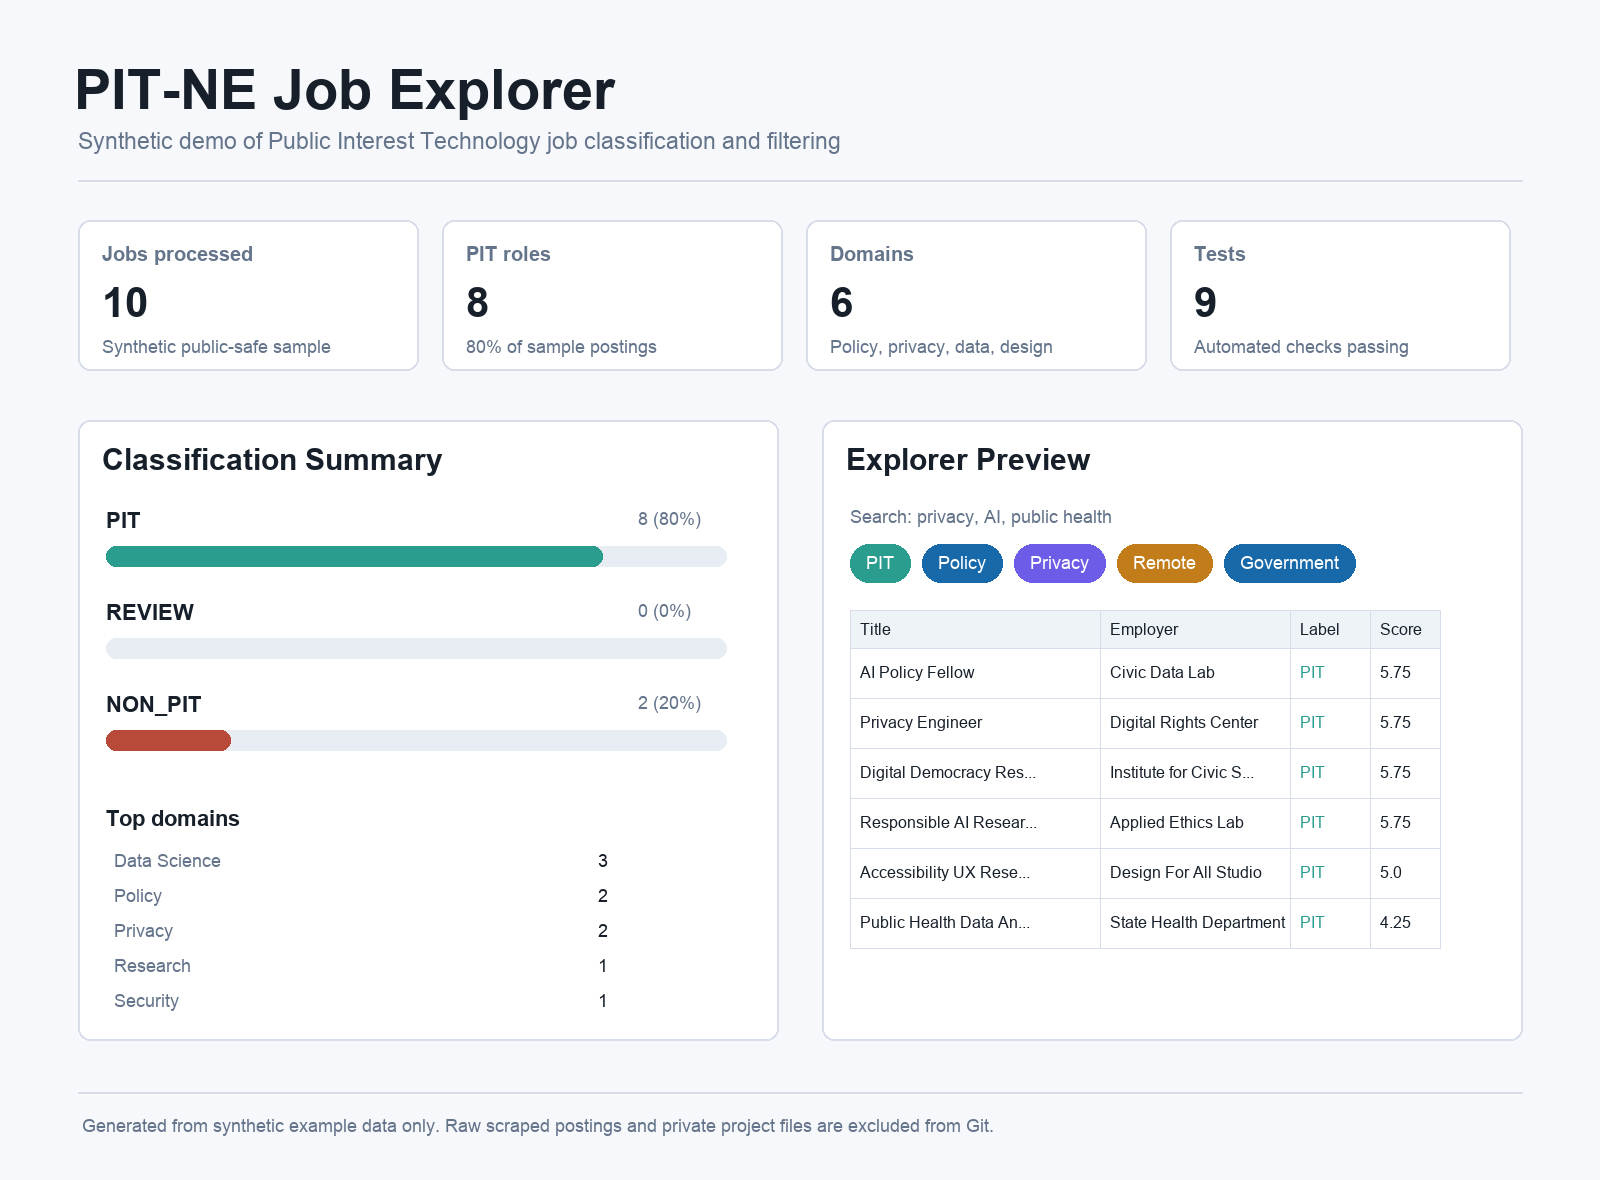
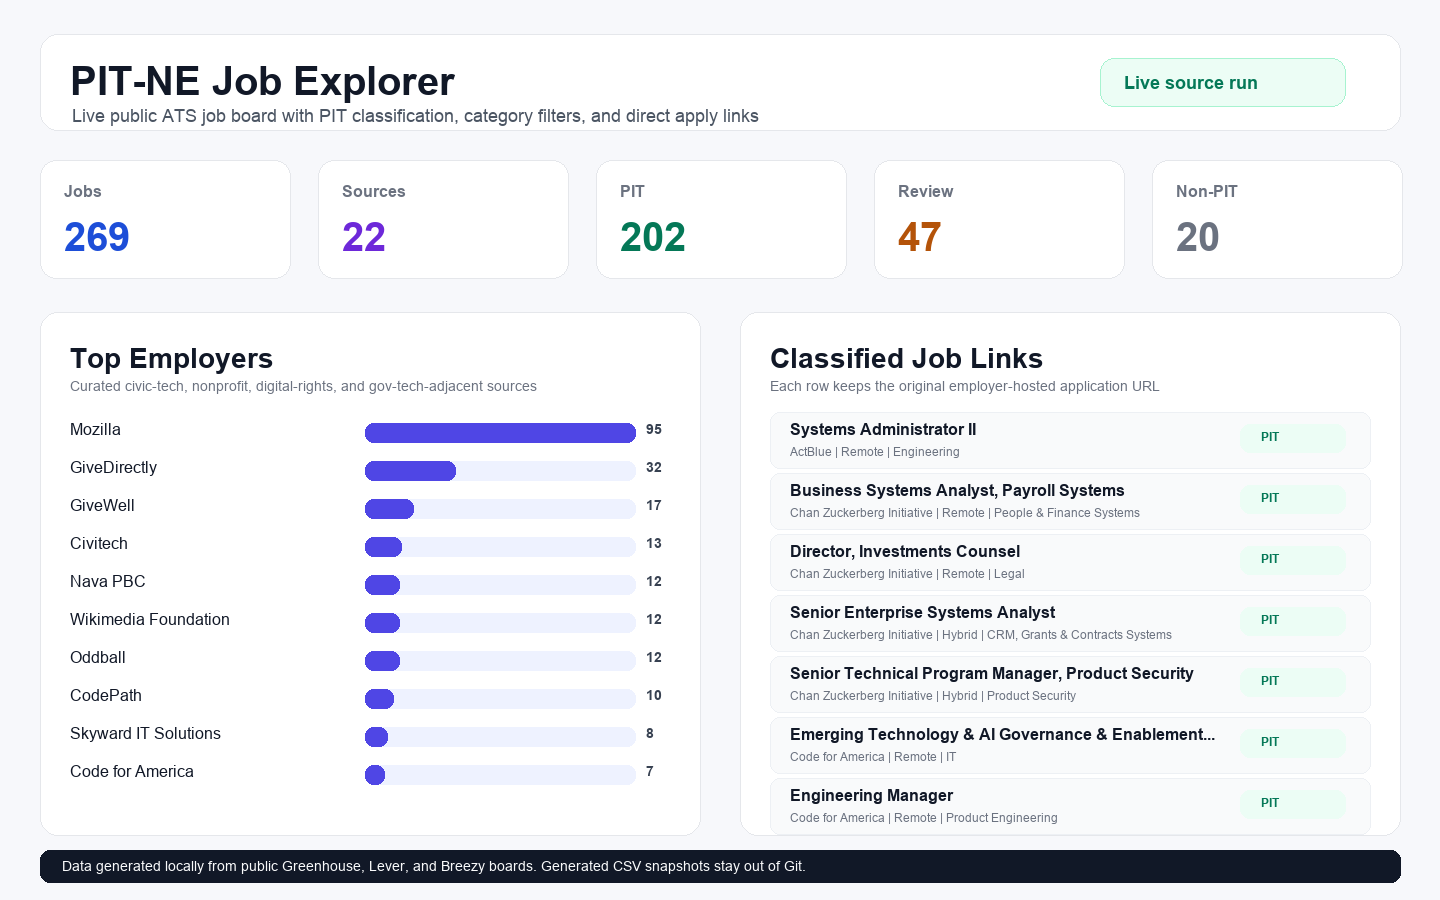
Expand live job board source registry

diff --git a/src/pit_ne_job_explorer/sources.py b/src/pit_ne_job_explorer/sources.py
@@ -129,6 +129,39 @@ def parse_greenhouse_posting(
     }
 
 
+def parse_breezy_posting(source: Mapping[str, str], posting: Mapping[str, object]) -> dict[str, str]:
+    location = posting.get("location") or {}
+    if not isinstance(location, Mapping):
+        location = {}
+    location_name = str(location.get("name", "") or "")
+    country = location.get("country") or {}
+    if not isinstance(country, Mapping):
+        country = {}
+
+    description_parts = [
+        posting.get("description"),
+        posting.get("summary"),
+        posting.get("department"),
+    ]
+    description = " ".join(strip_html(part) for part in description_parts if part)
+    is_remote = location.get("is_remote") is True
+
+    return {
+        "title": str(posting.get("name", "") or ""),
+        "employer": str((posting.get("company") or {}).get("name") or source["name"]),
+        "location": location_name,
+        "country": str(country.get("name", "") or ""),
+        "source": f"Breezy: {source['name']}",
+        "job_url": str(posting.get("url", "") or source.get("source_url", "")),
+        "description": description,
+        "date_posted": str(posting.get("published_date", "") or ""),
+        "location_type": "Remote" if is_remote else "",
+        "experience_level": "",
+        "sector": str(source.get("sector", "") or ""),
+        "domain": str(posting.get("department", "") or ""),
+    }
+
+
 def fetch_lever_source(source: Mapping[str, str]) -> list[dict[str, str]]:
     site = urllib.parse.quote(source["site"])
     url = f"https://api.lever.co/v0/postings/{site}?mode=json"
@@ -147,12 +180,23 @@ def fetch_greenhouse_source(source: Mapping[str, str]) -> list[dict[str, str]]:
     return [parse_greenhouse_posting(source, posting) for posting in payload["jobs"]]
 
 
+def fetch_breezy_source(source: Mapping[str, str]) -> list[dict[str, str]]:
+    subdomain = urllib.parse.quote(source["subdomain"])
+    url = f"https://{subdomain}.breezy.hr/json"
+    payload = fetch_json(url)
+    if not isinstance(payload, list):
+        raise SourceFetchError(f"Breezy source {source['name']} returned non-list JSON")
+    return [parse_breezy_posting(source, posting) for posting in payload]
+
+
 def fetch_source(source: Mapping[str, str]) -> list[dict[str, str]]:
     provider = source.get("provider")
     if provider == "lever":
         return fetch_lever_source(source)
     if provider == "greenhouse":
         return fetch_greenhouse_source(source)
+    if provider == "breezy":
+        return fetch_breezy_source(source)
     raise SourceFetchError(f"Unsupported provider for {source.get('name')}: {provider}")
 
 
@@ -161,3 +205,16 @@ def collect_jobs(sources: Iterable[Mapping[str, str]]) -> list[dict[str, str]]:
     for source in sources:
         rows.extend(fetch_source(source))
     return rows
+
+
+def collect_jobs_with_errors(
+    sources: Iterable[Mapping[str, str]],
+) -> tuple[list[dict[str, str]], list[str]]:
+    rows: list[dict[str, str]] = []
+    errors: list[str] = []
+    for source in sources:
+        try:
+            rows.extend(fetch_source(source))
+        except SourceFetchError as exc:
+            errors.append(str(exc))
+    return rows, errors

diff --git a/scripts/fetch_live_jobs.py b/scripts/fetch_live_jobs.py
@@ -6,7 +6,11 @@ import argparse
 from pathlib import Path
 
 from pit_ne_job_explorer.cli import run, write_csv
-from pit_ne_job_explorer.sources import SOURCE_FIELDS, collect_jobs, load_source_registry
+from pit_ne_job_explorer.sources import (
+    SOURCE_FIELDS,
+    collect_jobs_with_errors,
+    load_source_registry,
+)
 
 
 def build_parser() -> argparse.ArgumentParser:
@@ -39,10 +43,18 @@ def build_parser() -> argparse.ArgumentParser:
 def main(argv: list[str] | None = None) -> int:
     args = build_parser().parse_args(argv)
     sources = load_source_registry(args.sources)
-    rows = collect_jobs(sources)
+    rows, errors = collect_jobs_with_errors(sources)
+    for error in errors:
+        print(f"Warning: {error}")
+    if not rows:
+        raise SystemExit("No postings were fetched from the configured sources.")
     write_csv(args.raw_output, rows, SOURCE_FIELDS)
     count = run(args.raw_output, args.jobs_output, args.summary_output)
-    print(f"Fetched {len(rows)} public posting(s) from {len(sources)} source(s).")
+    successful_sources = len(sources) - len(errors)
+    print(
+        f"Fetched {len(rows)} public posting(s) from "
+        f"{successful_sources}/{len(sources)} source(s)."
+    )
     print(f"Wrote {count} classified job row(s) to {Path(args.jobs_output)}")
     print(f"Wrote summary metrics to {Path(args.summary_output)}")
     return 0

diff --git a/tests/test_sources.py b/tests/test_sources.py
@@ -1,4 +1,5 @@
 from pit_ne_job_explorer.sources import (
+    parse_breezy_posting,
     parse_greenhouse_posting,
     parse_lever_posting,
     strip_html,
@@ -48,6 +49,30 @@ def test_parse_greenhouse_posting_strips_html_and_keeps_source_url():
     assert row["job_url"].endswith("/123")
     assert row["description"] == "Responsible AI & policy for public services."
     assert row["domain"] == "Technology"
+
+
+def test_parse_breezy_posting_preserves_remote_location_and_link():
+    source = {"name": "U.S. Digital Response", "sector": "Nonprofit"}
+    posting = {
+        "name": "Chief Technology Officer",
+        "url": "https://us-digital-response.breezy.hr/p/abc",
+        "published_date": "2026-09-22T18:43:03.474Z",
+        "department": "Executive Team",
+        "location": {
+            "name": "United States",
+            "is_remote": True,
+            "country": {"name": "United States"},
+        },
+        "company": {"name": "U.S. Digital Response"},
+    }
+
+    row = parse_breezy_posting(source, posting)
+
+    assert row["employer"] == "U.S. Digital Response"
+    assert row["location_type"] == "Remote"
+    assert row["country"] == "United States"
+    assert row["domain"] == "Executive Team"
+    assert row["job_url"].endswith("/abc")
 
 
 def test_strip_html_normalizes_entities_and_spacing():

diff --git a/README.md b/README.md
@@ -17,8 +17,8 @@ not been reviewed for sharing.
   and sector rules.
 - Produces summary metrics by PIT label, domain, sector, experience level, and
   location type.
-- Fetches real public postings from company-hosted Greenhouse and Lever job
-  boards, preserving direct apply links.
+- Fetches real public postings from company-hosted Greenhouse, Lever, and
+  Breezy job boards, preserving direct apply links.
 - Includes a lightweight Streamlit explorer for search, filtering, and clickable
   posting links.
 - Keeps generated job datasets out of Git so the public repository is safe to
@@ -30,16 +30,18 @@ not been reviewed for sharing.
 
 The committed synthetic demo processes 10 public-safe job postings, classifies
 8 as `PIT` and 2 as `NON_PIT`, and summarizes roles across 6 inferred domains.
-A live source registry currently targets 5 public ATS boards from civic-tech and
-public-interest-adjacent employers; local validation on 2026-10-09 fetched 40
-public postings with direct source links. The project includes 12 automated
-tests covering source adapters, normalization, deduplication, classification,
-analysis, and CLI exports.
+A live source registry currently targets 22 public ATS boards from civic-tech,
+public-interest, digital-rights, nonprofit, and gov-tech-adjacent employers.
+Local validation on 2026-10-09 fetched 269 public postings with direct source
+links, classifying 202 as `PIT`, 47 as `REVIEW`, and 20 as `NON_PIT`. The
+project includes 13 automated tests covering source adapters, normalization,
+deduplication, classification, analysis, and CLI exports.
 
 ## Portfolio Materials
 
 - `docs/methodology.md`: working PIT definition, classification rules, and
   source policy.
+- `docs/source_registry.md`: curated list of public job-board sources.
 - `docs/data_dictionary.md`: canonical job-posting schema.
 - `docs/architecture.md`: pipeline design and component responsibilities.
 - `docs/resume_bullets.md`: role-specific resume bullet options.
@@ -88,7 +90,7 @@ CSV outputs + searchable job explorer
 This first public version includes:
 
 - synthetic job posting dataset
-- public Greenhouse and Lever source adapters
+- public Greenhouse, Lever, and Breezy source adapters
 - real-job fetch script with direct source posting links
 - normalization and deduplication logic
 - rule-based PIT classification
@@ -118,7 +120,8 @@ Next planned steps:
 │   ├── data_dictionary.md
 │   ├── methodology.md
 │   ├── project_plan.md
-│   └── resume_bullets.md
+│   ├── resume_bullets.md
+│   └── source_registry.md
 ├── scripts/
 │   ├── fetch_live_jobs.py
 │   └── run_sample_pipeline.py

diff --git a/docs/source_registry.md b/docs/source_registry.md
@@ -1,0 +1,34 @@
+# Source Registry
+
+The live job-board prototype uses public, employer-hosted ATS boards. These
+sources were selected because they are adjacent to civic technology, public
+interest technology, digital rights, open knowledge, nonprofit technology,
+government service delivery, or social-impact data work.
+
+Generated snapshots are kept in `outputs/` and are not committed because live
+postings can expire.
+
+| Source | Provider | Sector | Why Included |
+| --- | --- | --- | --- |
+| Code for America | Greenhouse | Nonprofit | Civic technology and government service delivery. |
+| Skylight | Greenhouse | Private | Public-sector digital service delivery. |
+| Recidiviz | Greenhouse | Nonprofit | Criminal justice data and public systems reform. |
+| Civitech | Lever | Private | Civic participation and democracy technology. |
+| Skyward IT Solutions | Lever | Private | Government technology and public-service modernization. |
+| Nava PBC | Greenhouse | Private | Public-benefit government service delivery. |
+| Mozilla | Greenhouse | Nonprofit | Open web, privacy, AI, and digital rights work. |
+| Mozilla Foundation | Greenhouse | Nonprofit | Public-interest internet and technology advocacy. |
+| Wikimedia Foundation | Greenhouse | Nonprofit | Open knowledge infrastructure. |
+| U.S. Digital Response | Breezy | Nonprofit | State, local, and tribal government digital response. |
+| Oddball | Greenhouse | Private | Federal digital services and civic technology. |
+| ProPublica | Greenhouse | Nonprofit | Investigative journalism, data, and public accountability. |
+| Consumer Reports | Greenhouse | Nonprofit | Consumer protection, research, and technology accountability. |
+| Common Cause | Lever | Nonprofit | Democracy, voting rights, and civic advocacy. |
+| ActBlue | Greenhouse | Nonprofit | Civic engagement and fundraising infrastructure. |
+| CodePath | Greenhouse | Nonprofit | Technology education and access. |
+| Code.org | Greenhouse | Nonprofit | Computer science education access. |
+| GiveDirectly | Greenhouse | Nonprofit | Data-informed anti-poverty programs. |
+| GiveWell | Greenhouse | Nonprofit | Evidence-based philanthropy and impact research. |
+| Chan Zuckerberg Initiative | Greenhouse | Nonprofit | Science, education, and social-impact technology. |
+| Omidyar Network | Greenhouse | Nonprofit | Responsible technology and social impact. |
+| Civis Analytics | Greenhouse | Private | Data science for civic, nonprofit, and public-sector work. |

diff --git a/docs/project_plan.md b/docs/project_plan.md
@@ -11,7 +11,7 @@
 
 - Review source permissions before adding scraper adapters.
 - Add source-specific collectors only for allowed sources. Done for the initial
-  Lever and Greenhouse adapters.
+  Greenhouse, Lever, and Breezy adapters.
 - Track failed or expired posting links.
 - Store raw data outside Git.
 
@@ -27,7 +27,7 @@
 - Expand the Streamlit explorer with filters for domain, location type,
   experience level, employer, PIT label, and sector. Done.
 - Include direct links to original postings. Done.
-- Add screenshots using synthetic or share-approved data. Done for synthetic
+- Add screenshots using synthetic or share-approved data. Done for live-source
   explorer preview.
 - Add methodology and source-disclaimer pages.
 - Prepare resume bullets and portfolio summary. Done.

diff --git a/docs/resume_bullets.md b/docs/resume_bullets.md
@@ -19,9 +19,10 @@ interface, and data governance decisions.
 
 ## Data Engineering Version
 
-- Created a reusable job-posting ETL pipeline that ingests public Greenhouse and
-  Lever postings, standardizes raw exports, removes duplicates, assigns PIT
-  relevance labels, and produces classified job and summary CSV outputs.
+- Created a reusable job-posting ETL pipeline that ingests public Greenhouse,
+  Lever, and Breezy postings, standardizes raw exports, removes duplicates,
+  assigns PIT relevance labels, and produces classified job and summary CSV
+  outputs.
 - Developed transparent scoring rules using public-interest, technology,
   governance, sector, and commercial-language signals, preserving matched
   keywords for auditability.

diff --git a/docs/architecture.md b/docs/architecture.md
@@ -23,10 +23,10 @@ domain when source data does not provide them.
 
 ### Source Adapters
 
-Fetches public postings from configured Greenhouse and Lever boards, preserving
-the original employer-hosted posting link in `job_url`. Each source is listed in
-`data/source_registry.json` so new employers can be reviewed and added without
-changing the parsing code.
+Fetches public postings from configured Greenhouse, Lever, and Breezy boards,
+preserving the original employer-hosted posting link in `job_url`. Each source
+is listed in `data/source_registry.json` so new employers can be reviewed and
+added without changing the parsing code.
 
 ### Deduplication
 

diff --git a/docs/methodology.md b/docs/methodology.md
@@ -35,6 +35,7 @@ The current live-fetch prototype uses company-hosted public ATS endpoints:
 
 - Greenhouse Job Board API for published board postings.
 - Lever Postings API for published public postings.
+- Breezy public JSON boards for published public postings.
 
 Generated job CSVs are treated as local outputs because live postings can expire
 and source descriptions may change. The public repository keeps source adapter
